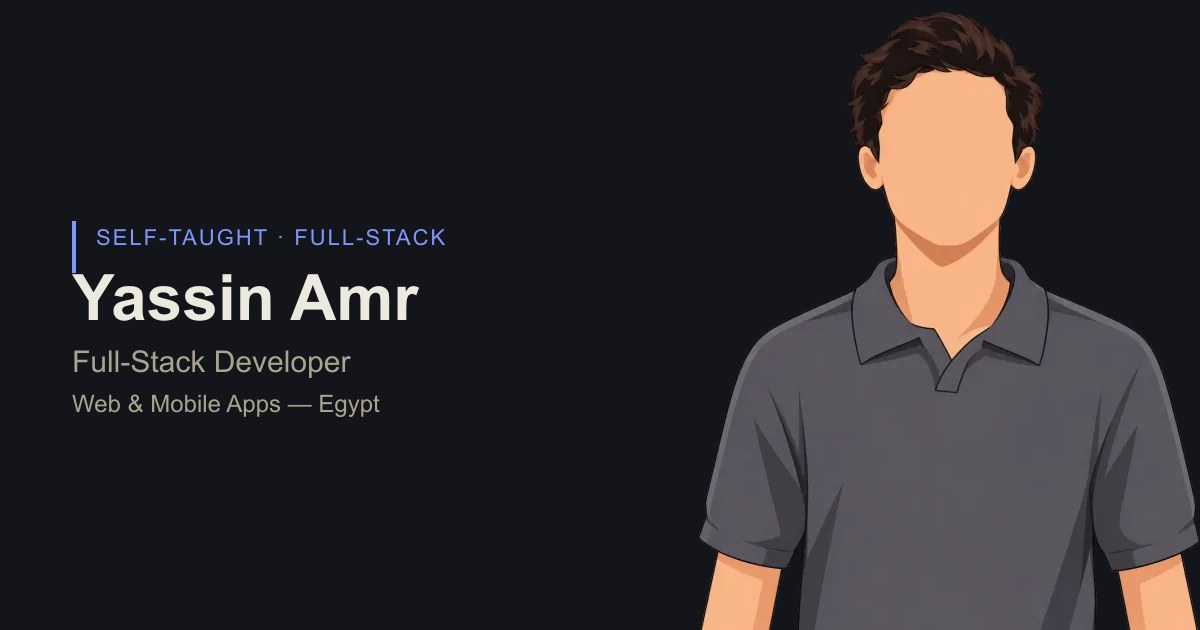
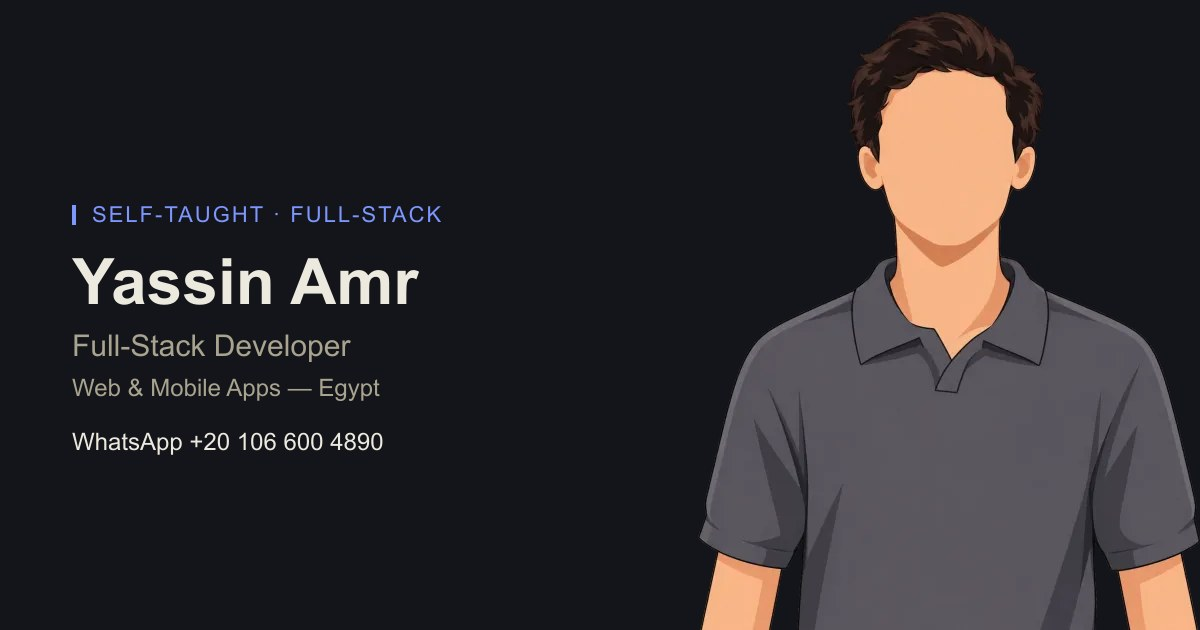
Polish share card and show WhatsApp as +201066004890
Share card: the blue accent bar ran down into the "Y" of the name;
it's now only as tall as the eyebrow line it labels, with clear
space above the name, and the text block is re-centered. Added the
WhatsApp number to the card. About section's WhatsApp entry now
displays +201066004890 instead of 01066004890 (link unchanged).

Changed region(s): [[0.0617, 0.3016, 0.37, 0.7238]]

diff --git a/src/components/About.jsx b/src/components/About.jsx
@@ -15,7 +15,7 @@ const INFO = (experience) => [
     href: "https://maps.app.goo.gl/zmjqNV1cFJiTuof18",
   },
   { label: "Email", value: "yassin5amr55@gmail.com", href: "mailto:yassin5amr55@gmail.com" },
-  { label: "Whatsapp", value: "01066004890", href: "https://wa.me/201066004890" },
+  { label: "Whatsapp", value: "+201066004890", href: "https://wa.me/201066004890" },
 ];
 
 export default function About() {
